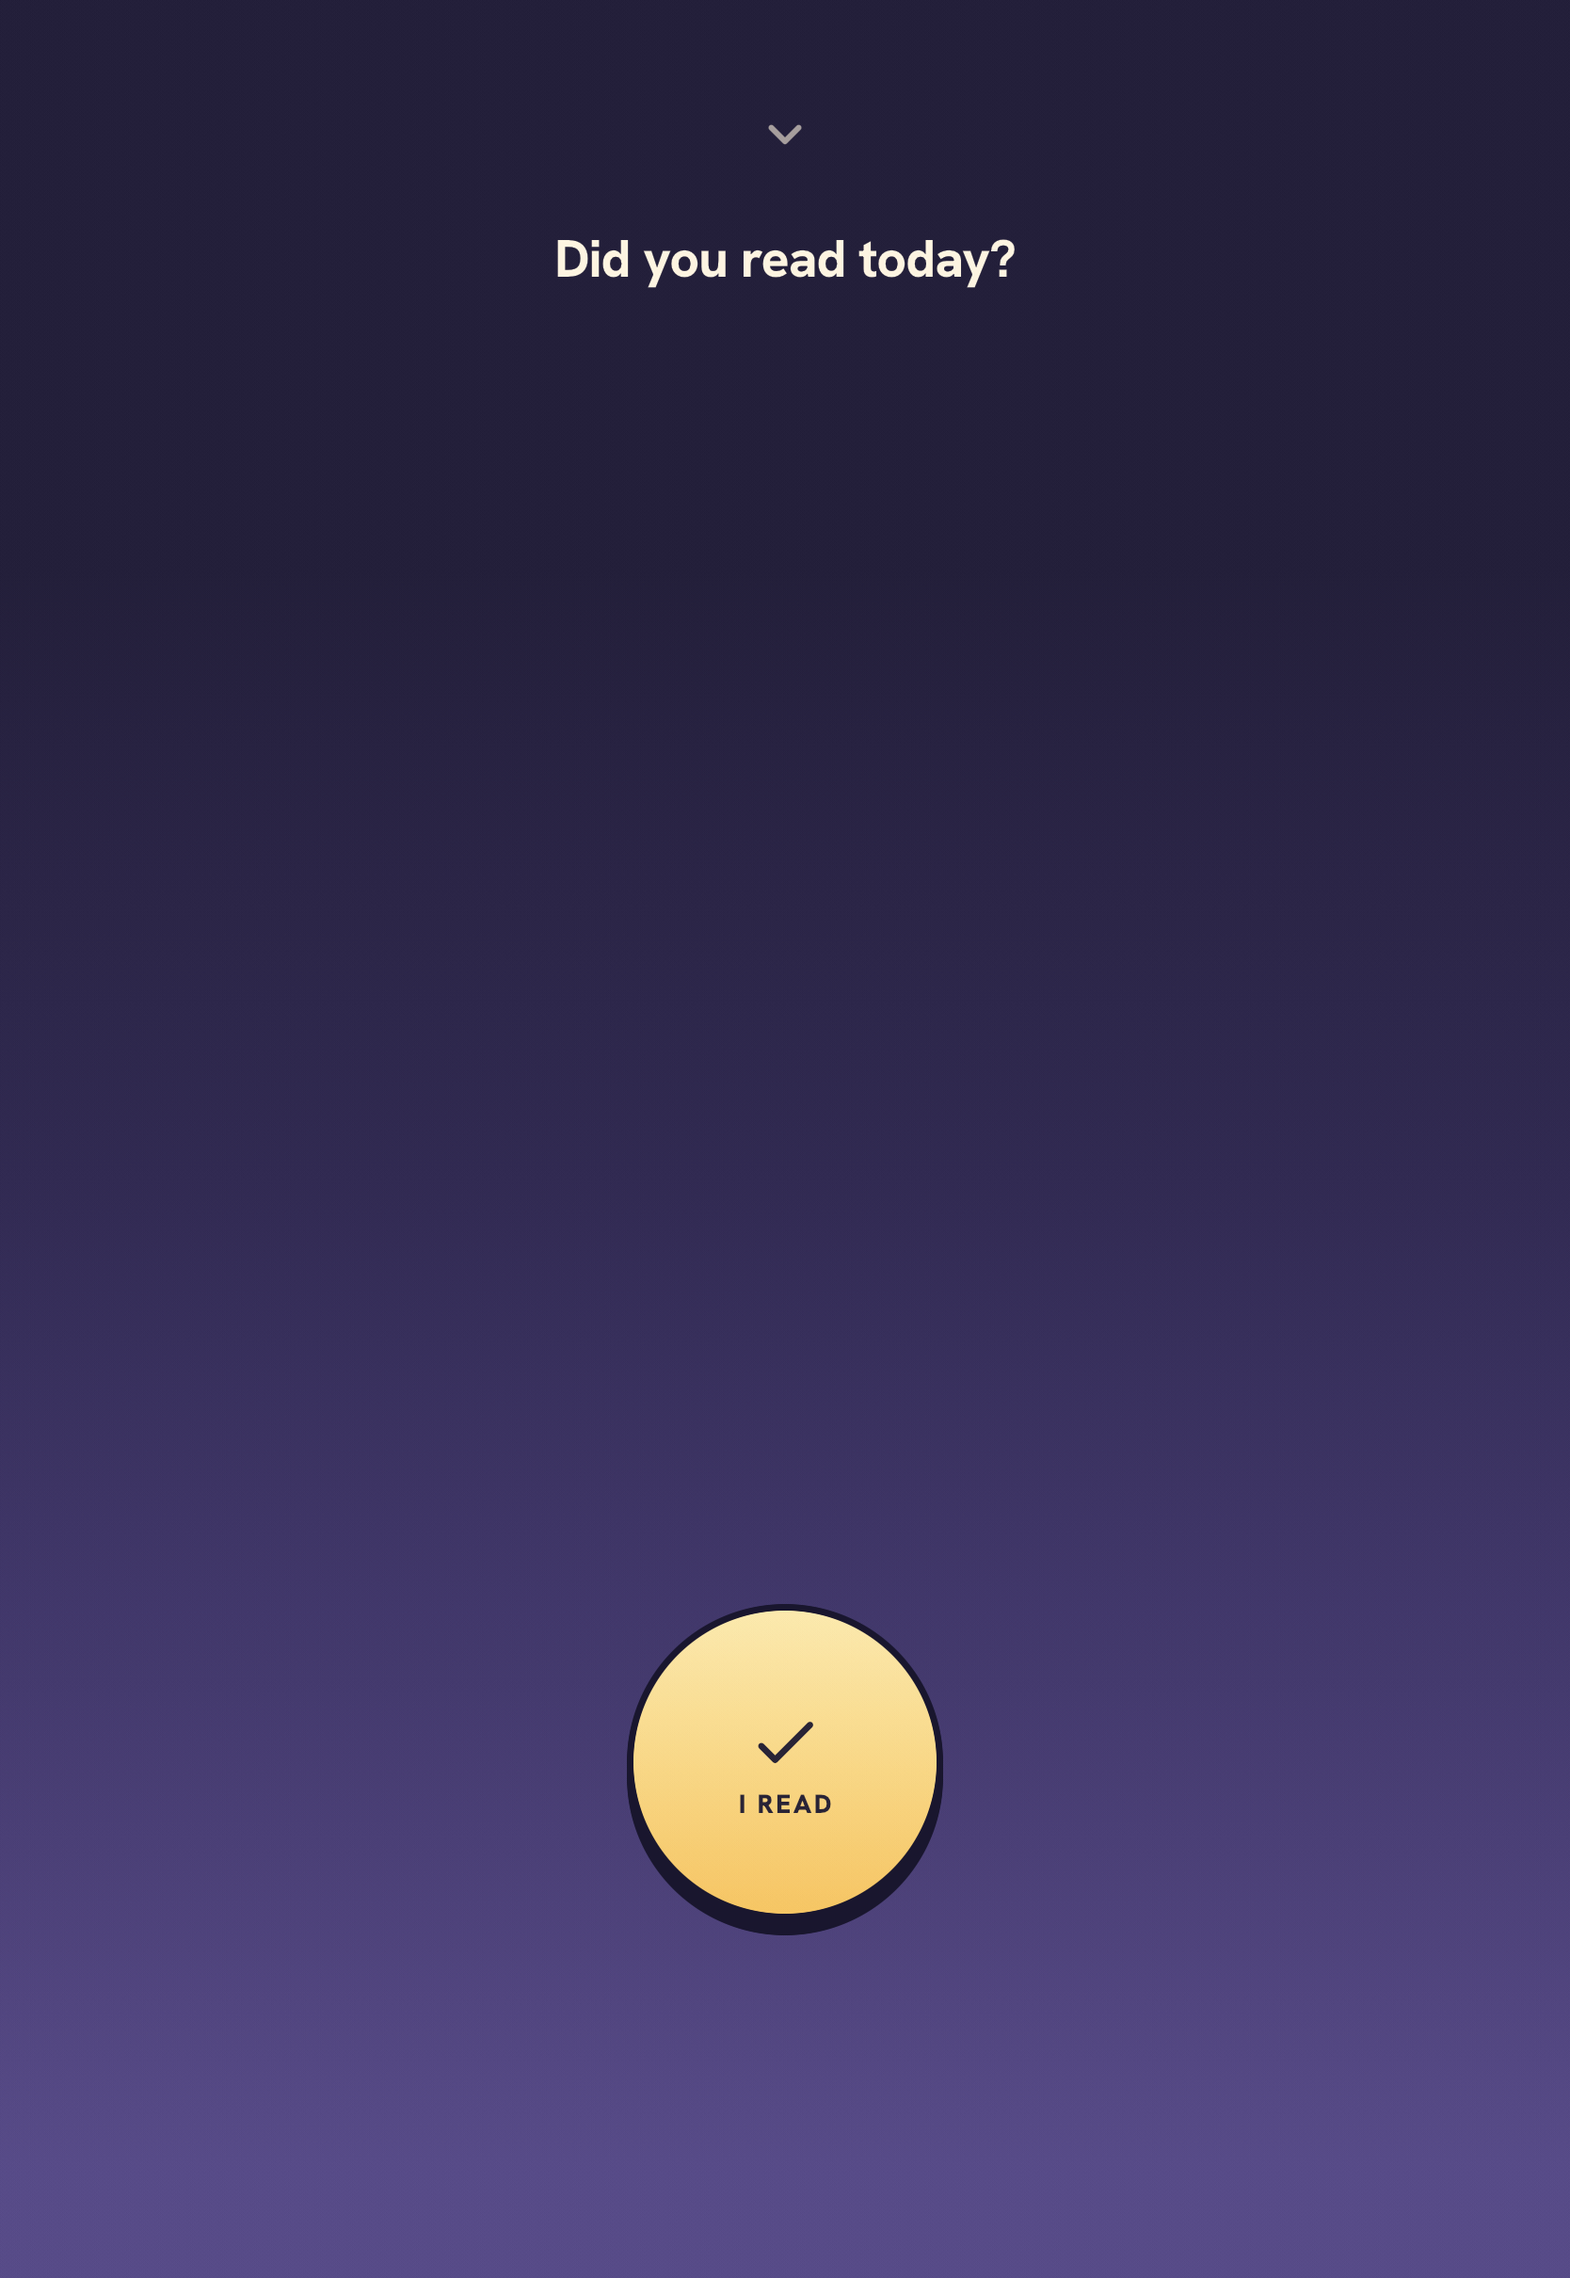
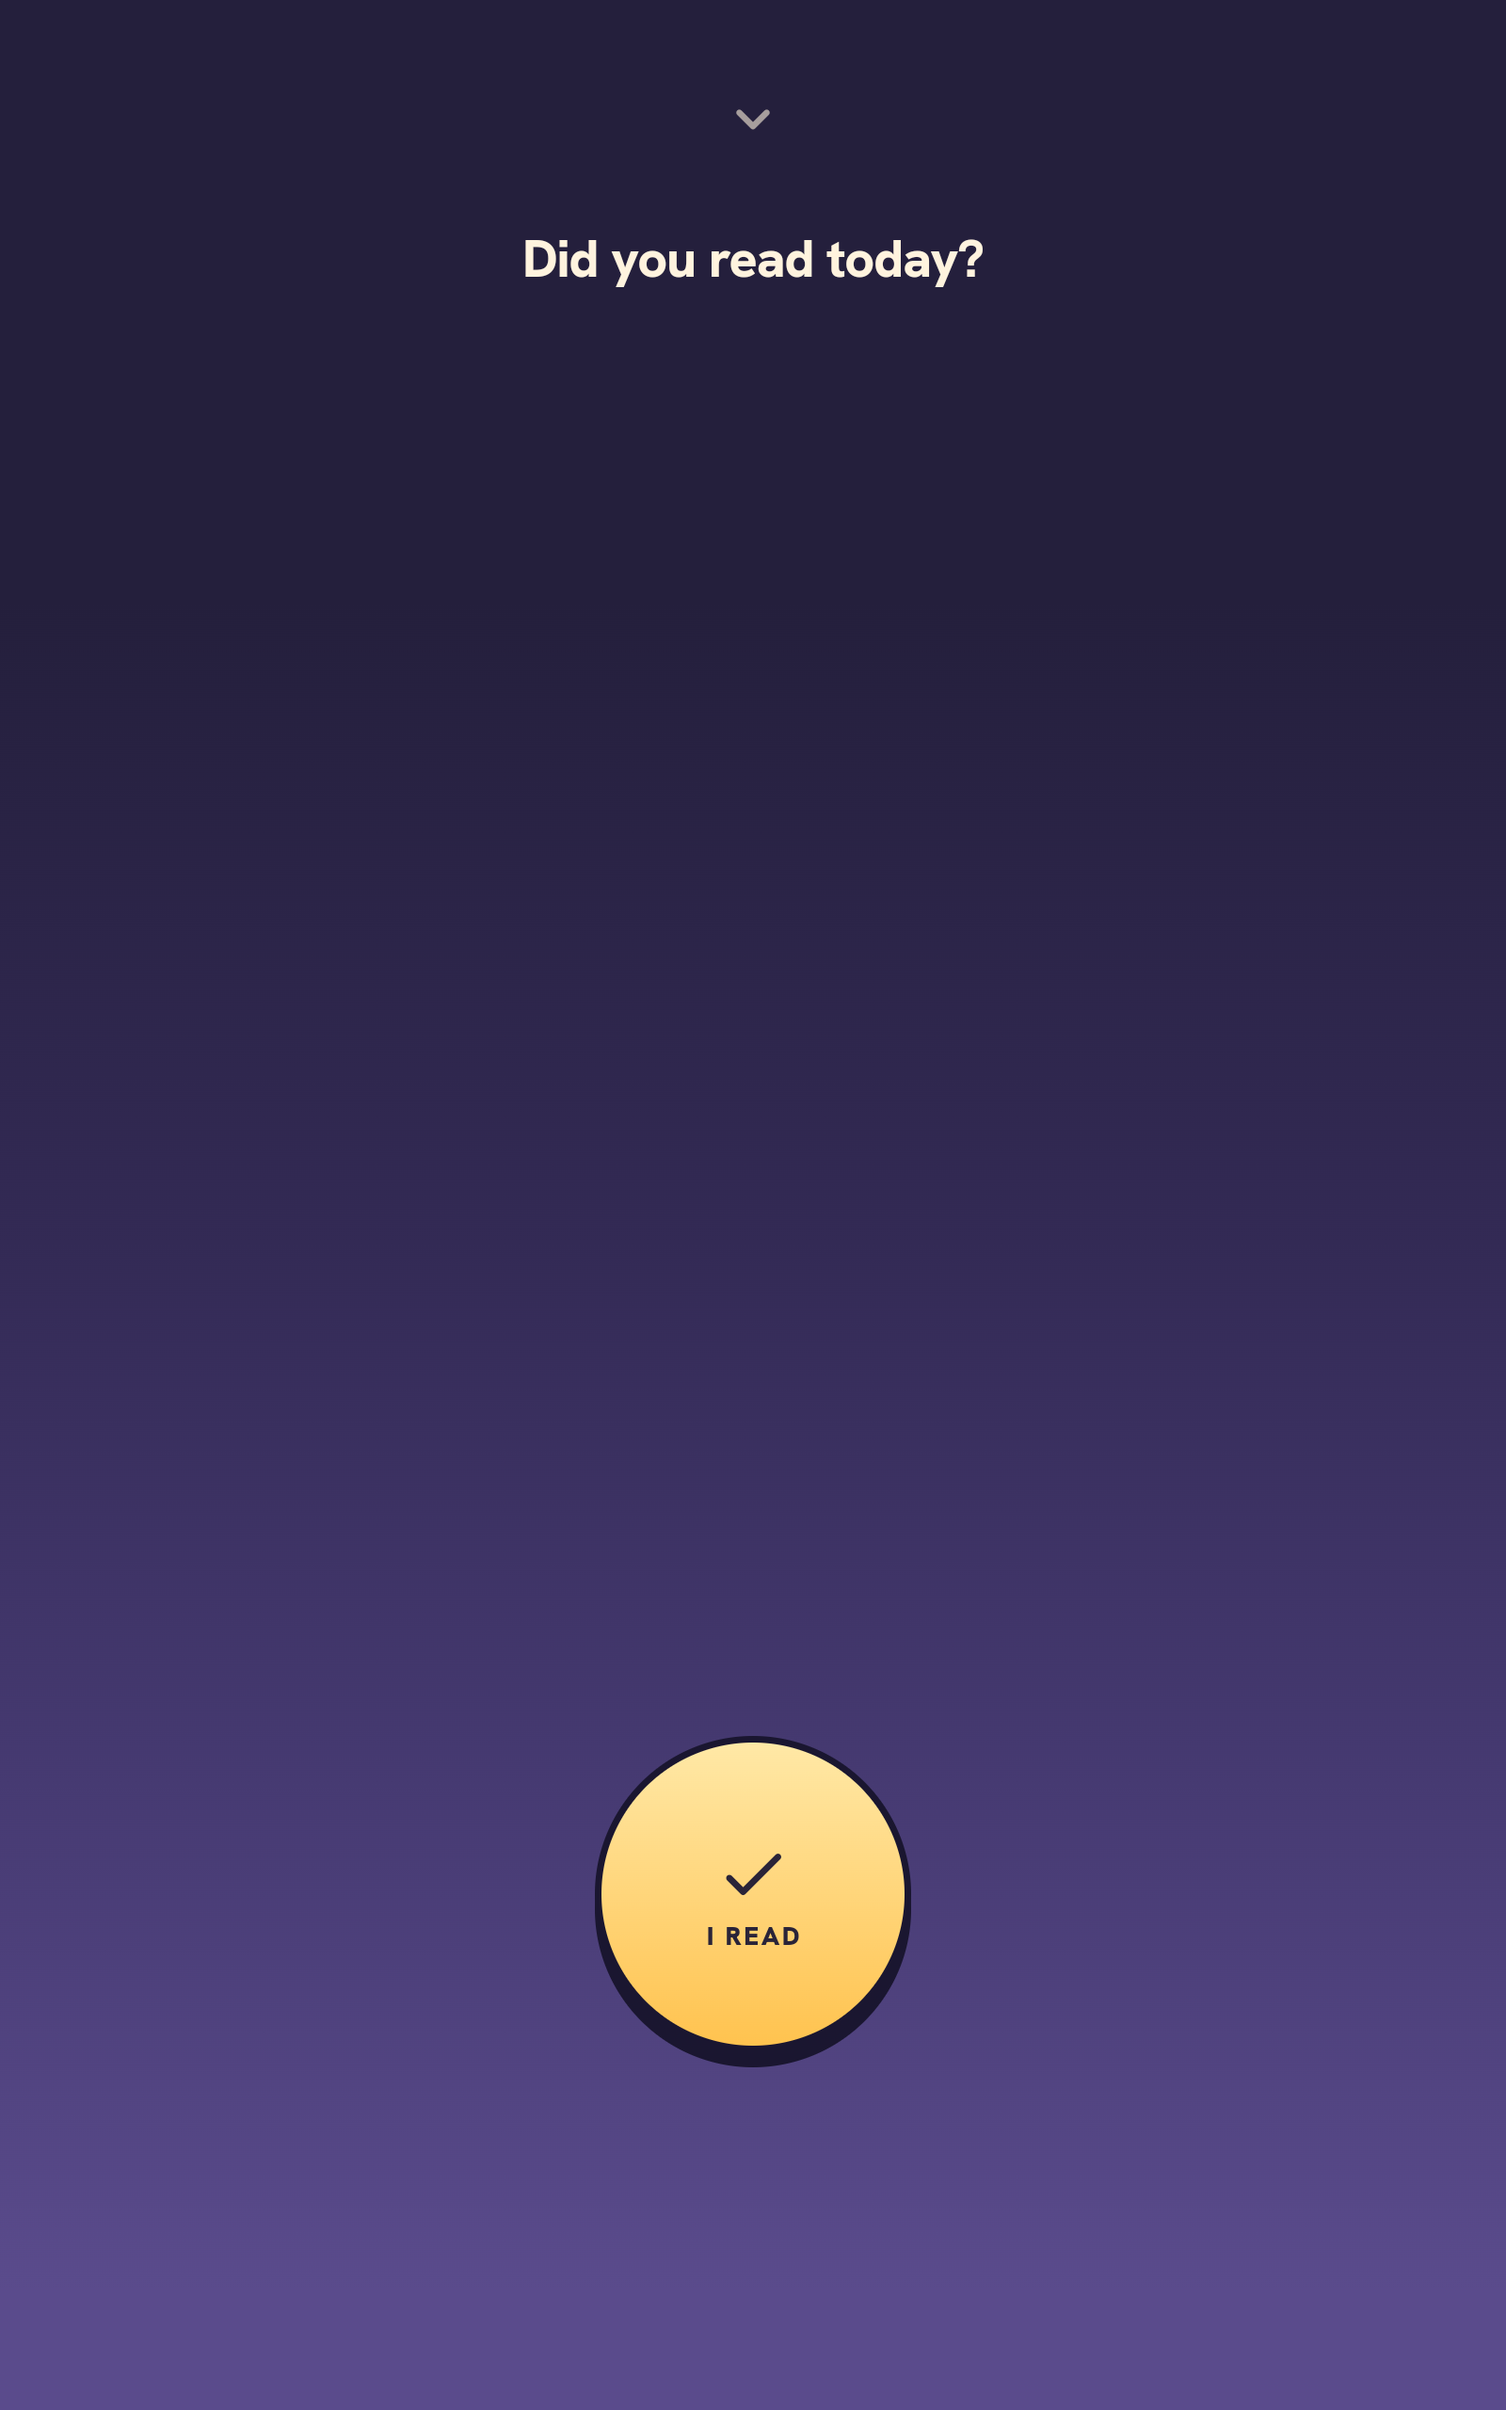
chore: capture Play tablet screenshots on an Android tablet
Replaces the iPad-sourced tablet captures with native ones from the
Play_Tablet AVD (medium_tablet, android-36) in portrait at 1600x2560, so
the Play tablet slots show an Android device shape (16:10) rather than an
iPad's 4:3, and the listing is Android throughout.

The AVD would not boot earlier: it wants ~7.4 GB free and the machine had
4.99 GB. With space available it boots fine. Rotation is forced before
capturing because the AVD is natively landscape and the app locks no
orientation.

flutter drive exits non-zero on this run even though every capture is
good — firebase_auth_mocks points its mock user at an imgur photo URL that
403s, and those image exceptions surface at teardown. README says so, so
the next person does not go hunting.

diff --git a/design/store-assets/README.md b/design/store-assets/README.md
@@ -58,26 +58,22 @@ nav bar would show a UI the app never renders at that size. Both 7" and 10"
 land on the same side of that single breakpoint, so one tablet capture serves
 both slots.
 
-### The tablet captures are from an iPad simulator
+### Tablet captures
 
-`captures/tablet/` was captured on an **iPad Pro 11"**, not an Android tablet,
-because the Android emulator could not start — it wants a 7.37 GB userdata
-partition and the machine had 4.99 GB free. Flutter draws its own Material
-widgets, so the rendered UI and the `ResponsiveScaffold` rail are identical on
-both platforms, and the frames crop into a drawn bezel so no platform chrome
-appears. It is still an iOS render sitting in a Play tablet slot.
-
-To redo it natively once there is disk space, a `Play_Tablet` AVD (medium_tablet,
-android-36) already exists:
+`captures/tablet/` comes from the `Play_Tablet` AVD (medium_tablet, android-36)
+in portrait at 1600x2560. The AVD's natural orientation is landscape and the app
+locks no orientation, so rotation is forced before capturing:
 
 ```sh
 ~/Library/Android/sdk/emulator/emulator -avd Play_Tablet -no-snapshot-load &
+adb -s emulator-5554 shell settings put system accelerometer_rotation 0
+adb -s emulator-5554 shell settings put system user_rotation 1
 flutter drive -d emulator-5554 --no-enable-impeller \
   --driver=test_driver/screenshot_driver.dart \
   --target=integration_test/store_capture_test.dart
 ```
 
-Then replace `captures/tablet/` and re-render.
+The AVD needs roughly 7.4 GB free to boot — it refuses outright below that.
 
 ## Re-capturing
 
@@ -98,6 +94,11 @@ Two capture traps, both real and both already handled in the harness:
 2. **`HomePage` auto-opens `CheckInPage`** on launch when today is unmarked, and
    it covers every screen you are trying to capture. The harness dismisses it
    through its `onClose` before the Home/Journey/Community frames.
+
+`flutter drive` exits non-zero on the tablet run even when every capture is
+good: `firebase_auth_mocks` gives its mock user a photo URL on i.stack.imgur.com
+that 403s, and the resulting image exceptions are reported at teardown. The
+avatar falls back to a plain circle. Check the PNGs before assuming a failure.
 
 The seed also makes the user the **owner** of the group. That is a workaround for
 [#779](https://github.com/Shir0o/bible-read/issues/779) — `groupsForUser()` emits
